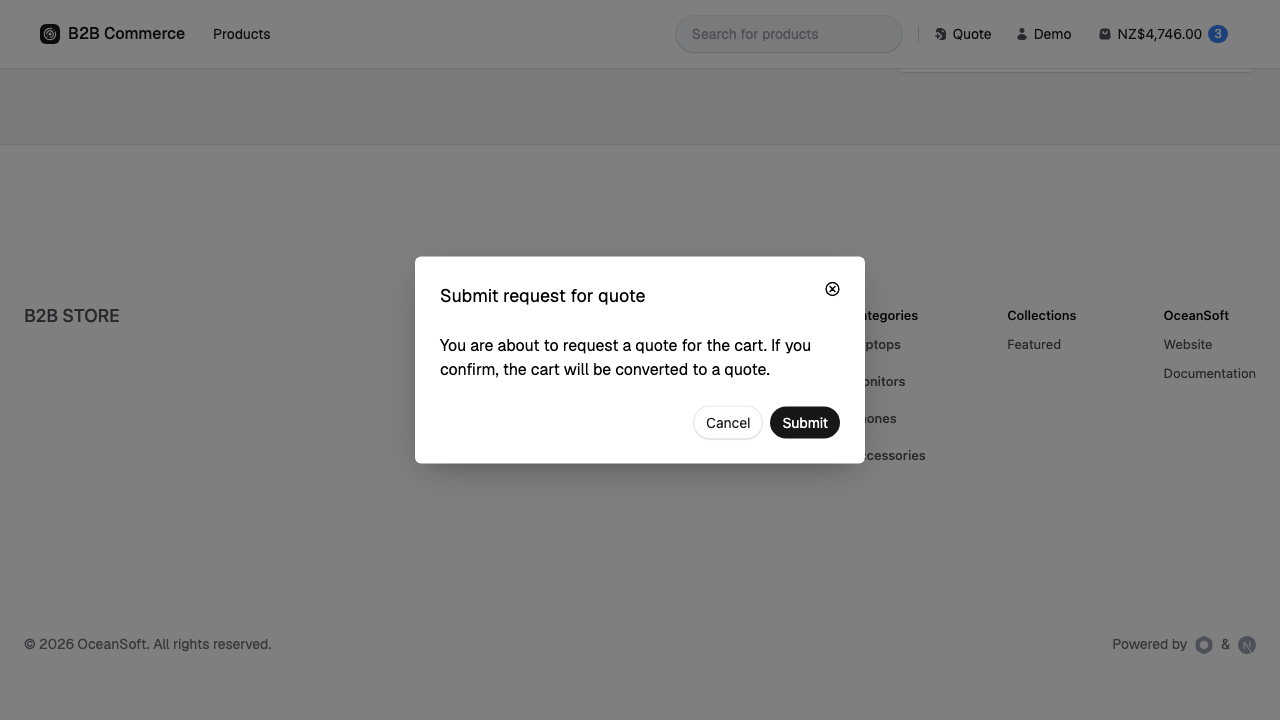
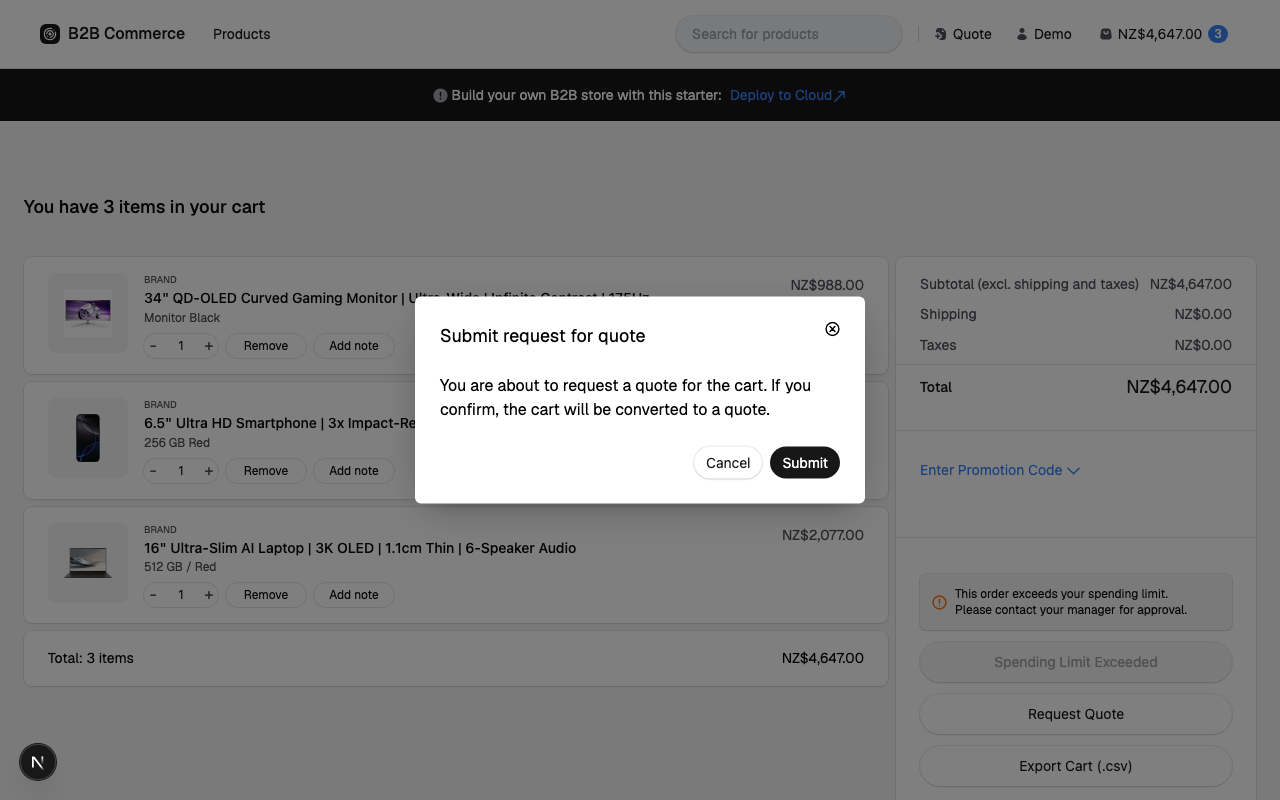
feat: llm-docs

diff --git a/docs/content/demo/reel-ceo-narration.md b/docs/content/demo/reel-ceo-narration.md
@@ -15,12 +15,12 @@ source_refs:
 last_compiled: "2026-06-08T00:00:00Z"
 reel: ceo
 frames:
-  beat1: docs/site/img/demo/flows/01-cart-to-quote/step-01.png
-  beat2: docs/site/img/demo/flows/01-cart-to-quote/step-04.png
-  beat3: docs/site/img/demo/flows/01-cart-to-quote/step-05.png
-  beat4: docs/site/img/demo/flows/02-approval/step-01.png
-  beat5: docs/site/img/demo/flows/02-approval/step-05b-govern-approve.png
-  beat6: docs/site/img/demo/flows/02-approval/step-06b-approved-audit.png
+  beat1: docs/static/img/demo/flows/01-cart-to-quote/step-01.png
+  beat2: docs/static/img/demo/flows/01-cart-to-quote/step-04.png
+  beat3: docs/static/img/demo/flows/01-cart-to-quote/step-05.png
+  beat4: docs/static/img/demo/flows/02-approval/step-01.png
+  beat5: docs/static/img/demo/flows/02-approval/step-05b-govern-approve.png
+  beat6: docs/static/img/demo/flows/02-approval/step-06b-approved-audit.png
 ---
 
 # CEO Reel — Cart to Quote to Approval: 3 Days to Minutes, Governed Spend
@@ -30,23 +30,23 @@ frames:
 **Persona protagonist**: Maria (procurement specialist, Demo Corp NZ) — value-trigger
 **Persona resolution**: David (procurement director, Demo Corp NZ) — governance owner
 **Audience**: Non-technical executive — must feel time and money saved
-**Real on-screen values**: NZ$4,746.00 cart / 3 items / NZ$1,582.00 quote / Approval #2469 / Demo Corp
+**Real on-screen values**: NZ$4,647.00 cart / 3 items / NZ$1,582.00 quote / Approval #2469 / Demo Corp
 
 ---
 
 ## Beat 1 — Setup: Loaded Cart Under Deadline
 
-**Frame**: `docs/site/img/demo/flows/01-cart-to-quote/step-01.png`
-**On screen**: NZ$4,746.00 cart, 3 items (6.5-inch Ultra HD Smartphone x3), spending-limit warning, Request Quote CTA
+**Frame**: `docs/static/img/demo/flows/01-cart-to-quote/step-01.png`
+**On screen**: NZ$4,647.00 cart, 3 items (6.5-inch Ultra HD Smartphone x3), spending-limit warning, Request Quote CTA
 
 **Narration**:
-> Maria is a procurement specialist at a New Zealand manufacturer. Quarter-close is four days away, and today her cart holds three units at NZ$4,746. Under the legacy process, a single quote means three emails, three sign-offs, and a three-to-five day wait — a window that slips the budget every time.
+> Maria is a procurement specialist at a New Zealand manufacturer. Quarter-close is four days away, and today her cart holds three units at NZ$4,647. Under the legacy process, a single quote means three emails, three sign-offs, and a three-to-five day wait — a window that slips the budget every time.
 
 ---
 
 ## Beat 2 — Trigger: Request Quote
 
-**Frame**: `docs/site/img/demo/flows/01-cart-to-quote/step-04.png`
+**Frame**: `docs/static/img/demo/flows/01-cart-to-quote/step-04.png`
 **On screen**: "Submit request for quote" modal, Cancel and Submit buttons
 
 **Narration**:
@@ -56,7 +56,7 @@ frames:
 
 ## Beat 3 — Quote Created: Pending Merchant
 
-**Frame**: `docs/site/img/demo/flows/01-cart-to-quote/step-05.png`
+**Frame**: `docs/static/img/demo/flows/01-cart-to-quote/step-05.png`
 **On screen**: Buyer Quotes list, quote #9 through #5, status "Pending Merchant", NZ$1,582.00 total
 
 **Narration**:
@@ -66,7 +66,7 @@ frames:
 
 ## Beat 4 — Handoff: David's Approvals Queue
 
-**Frame**: `docs/site/img/demo/flows/02-approval/step-01.png`
+**Frame**: `docs/static/img/demo/flows/02-approval/step-01.png`
 **On screen**: Admin Approvals list, #2469, Demo Corp, Pending, 1 item, 1 of 1 results
 
 **Narration**:
@@ -76,7 +76,7 @@ frames:
 
 ## Beat 5 — Govern and Approve
 
-**Frame**: `docs/site/img/demo/flows/02-approval/step-05b-govern-approve.png`
+**Frame**: `docs/static/img/demo/flows/02-approval/step-05b-govern-approve.png`
 **On screen**: Admin Approvals list, #2469, Demo Corp, Pending status, approve action available
 
 **Narration**:
@@ -86,7 +86,7 @@ frames:
 
 ## Beat 6 — Resolution: Approved
 
-**Frame**: `docs/site/img/demo/flows/02-approval/step-06b-approved-audit.png`
+**Frame**: `docs/static/img/demo/flows/02-approval/step-06b-approved-audit.png`
 **On screen**: Admin Approvals list, #2469, Demo Corp, green "Approved" status badge
 
 **Narration**:
@@ -99,4 +99,4 @@ frames:
 - **Currency**: NZD throughout. All figures on screen are NZ$ — narrate "NZD" or "New Zealand dollars" on first mention only.
 - **Beat 6 audit trail**: The current build shows status flip to Approved on the approvals list. No comment-field or timestamped-approver panel is present in this release. Narration references "decision on the record" as the outcome (correct) without fabricating a visible audit panel.
 - **Beat 3 label**: The on-screen label is "Pending Merchant" (not "Pending Approval"). Narrate as "awaiting sign-off" to stay outcome-focused while remaining feature-accurate.
-- **PO contract values**: PO used $850/12 items as illustrative placeholders. On-frame real values are NZ$4,746/3 items for beat 1 and NZ$1,582 for beat 3. Per INVEST.Negotiable, on-frame values are narrated (feature-accuracy AC-4).
+- **PO contract values**: PO used $850/12 items as illustrative placeholders. On-frame real values are NZ$4,647/3 items for beat 1 and NZ$1,582 for beat 3. Per INVEST.Negotiable, on-frame values are narrated (feature-accuracy AC-4).

diff --git a/docs/content/demo/reel-cto-narration.md b/docs/content/demo/reel-cto-narration.md
@@ -15,12 +15,12 @@ reel: cto
 frames:
   beat1: null
   beat2: null
-  beat3: docs/site/img/demo/flows/observability/prometheus-targets-up.png
-  beat4: docs/site/img/demo/flows/observability/grafana-latency-rate-panels.png
-  beat5: docs/site/img/demo/flows/observability/grafana-upstatus-grid.png
+  beat3: docs/static/img/demo/flows/observability/prometheus-targets-up.png
+  beat4: docs/static/img/demo/flows/observability/grafana-latency-rate-panels.png
+  beat5: docs/static/img/demo/flows/observability/grafana-upstatus-grid.png
 promql_verified:
-  rate: "sum(rate(medusa_http_requests_total[5m])) = 2.49 req/s"
-  p95: "histogram_quantile(0.95,...) = 248ms"
+  rate: "sum(rate(medusa_http_requests_total[5m])) = 1.77 req/s"
+  p95: "histogram_quantile(0.95,...) = 207ms"
   targets_up: "up{} = 4/4"
 ---
 
@@ -56,7 +56,7 @@ promql_verified:
 
 ## Beat 3 — Prometheus Targets: All 4 UP
 
-**Frame**: `docs/site/img/demo/flows/observability/prometheus-targets-up.png`
+**Frame**: `docs/static/img/demo/flows/observability/prometheus-targets-up.png`
 **On screen**: Prometheus Target Health page — b2b-commerce (ec_backend:9000/admin/metrics), node, postgres, redis — all UP (green)
 
 **Narration**:
@@ -66,7 +66,7 @@ promql_verified:
 
 ## Beat 4 — Grafana: Latency and Error Rate React to Traffic
 
-**Frame**: `docs/site/img/demo/flows/observability/grafana-latency-rate-panels.png`
+**Frame**: `docs/static/img/demo/flows/observability/grafana-latency-rate-panels.png`
 **On screen**: "Digital Commerce — Backend" dashboard — Backend Request Latency p50/p95/p99 (p50=31.8ms, p95=105ms, p99=191ms) and Backend Request Rate by Status (2xx populated, ~1.99 req/s max)
 
 **Narration**:
@@ -76,7 +76,7 @@ promql_verified:
 
 ## Beat 5 — Up-Status Grid: Healthy in One Glance
 
-**Frame**: `docs/site/img/demo/flows/observability/grafana-upstatus-grid.png`
+**Frame**: `docs/static/img/demo/flows/observability/grafana-upstatus-grid.png`
 **On screen**: Up-Status Grid — All Scrape Targets: 4 green tiles — Medusa Backend (ec_backend:9000), Postgres Exporter, Redis Exporter, Node Exporter — all "UP"
 
 **Narration**:
